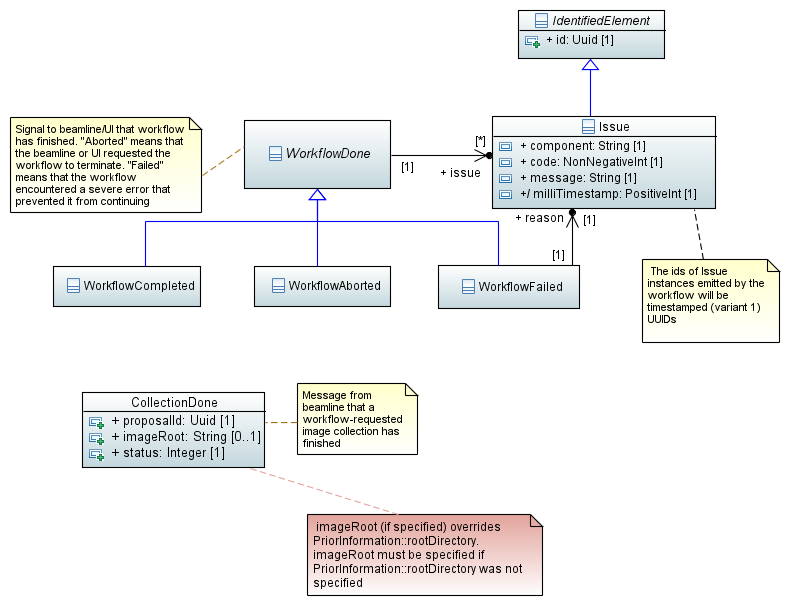
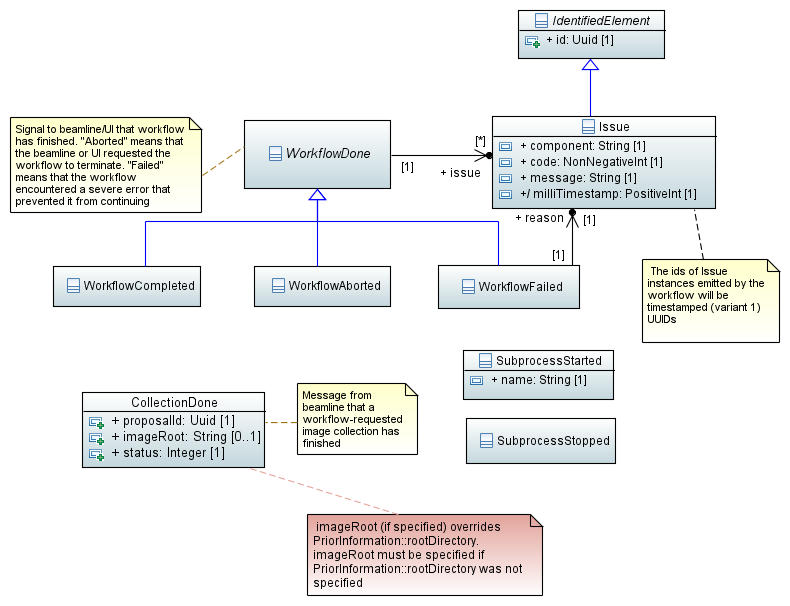
Add messages for starting and ending of workflow-side subprocesses
- These are used to enable the beamline UI to handle standard output
from these subprocesses better.

Changed region(s): [[0.5772, 0.5644, 0.7899, 0.6832], [0.5772, 0.7129, 0.7899, 0.7723]]

diff --git a/com.globalphasing.sdcp.abstract_beamline/src/co/gphl/beamline/v2_unstable/information/SubprocessStarted.java b/com.globalphasing.sdcp.abstract_beamline/src/co/gphl/beamline/v2_unstable/information/SubprocessStarted.java
@@ -1,0 +1,23 @@
+/**
+ * Copyright © 2016 by Global Phasing Ltd. All rights reserved
+ *
+ * This software is proprietary to and embodies the confidential
+ * technology of Global Phasing Limited (GPhL).
+ *
+ * Any possession or use (including but not limited to duplication, reproduction
+ * and dissemination) of this software (in either source or compiled form) is
+ * forbidden except where an agreement with GPhL that permits such possession or
+ * use is in force.
+ *
+ */
+package co.gphl.beamline.v2_unstable.information;
+
+/**
+ * @author pkeller
+ *
+ */
+public interface SubprocessStarted {
+
+    String getName();
+    
+}

diff --git a/com.globalphasing.sdcp.abstract_beamline/src/co/gphl/beamline/v2_unstable/information/SubprocessStopped.java b/com.globalphasing.sdcp.abstract_beamline/src/co/gphl/beamline/v2_unstable/information/SubprocessStopped.java
@@ -1,0 +1,21 @@
+/**
+ * Copyright © 2016 by Global Phasing Ltd. All rights reserved
+ *
+ * This software is proprietary to and embodies the confidential
+ * technology of Global Phasing Limited (GPhL).
+ *
+ * Any possession or use (including but not limited to duplication, reproduction
+ * and dissemination) of this software (in either source or compiled form) is
+ * forbidden except where an agreement with GPhL that permits such possession or
+ * use is in force.
+ *
+ */
+package co.gphl.beamline.v2_unstable.information;
+
+/**
+ * @author pkeller
+ *
+ */
+public interface SubprocessStopped {
+
+}
